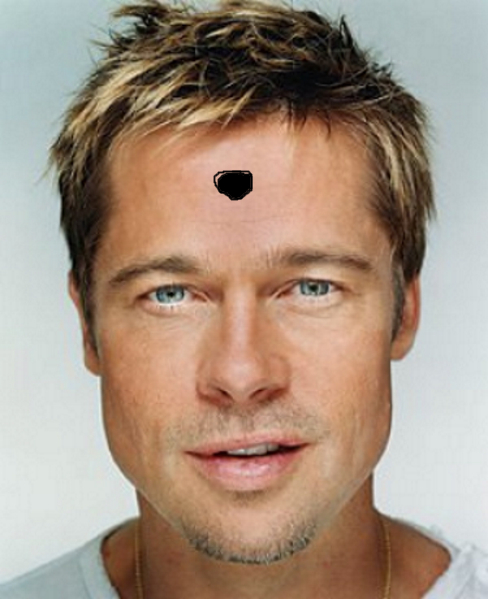
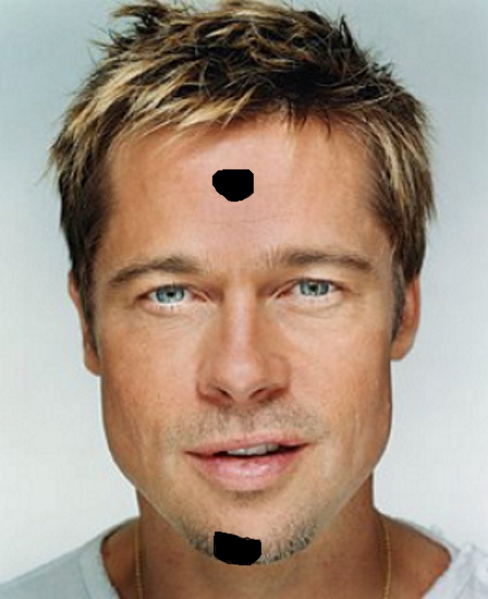
De functies om de verschillen aan te klikken verbeterd en nu geeft ie dit aan in de console.

Changed region(s): [[0.4303, 0.8715, 0.5533, 0.9616], [0.4303, 0.2705, 0.5225, 0.3306], [0.4611, 0.3306, 0.4918, 0.3606]]

diff --git a/src/screens/DeepFakeScreen.ts b/src/screens/DeepFakeScreen.ts
@@ -4,12 +4,14 @@
 class DeepFakeScreen extends GameScreen {
 
     private origninal: HTMLImageElement;
-    private deepfakeimage: HTMLImageElement
-    private startButton: UIButton;
+    private deepfakeimage: HTMLImageElement;
+    private differenceButtom1: UIButton;
+    private differenceButtom2: UIButton;
 
     // private readonly canvas: HTMLCanvasElement;
     // private readonly ctx: CanvasRenderingContext2D;
     public DeepFakeList: Array<Deepfake>
+    
     public draw(ctx: CanvasRenderingContext2D) {
         // Draw boxes
         ctx.fillStyle = 'white';
@@ -37,9 +39,10 @@ class DeepFakeScreen extends GameScreen {
         this.game.canvas.width/10*3.5,
         this.game.canvas.height * this.game.canvas.width / this.game.canvas.height/2 )
 
-
-        ctx.fillStyle = "white"
-        //ctx.fillRect( this.game.canvas.width / 4 * 3 , this.deepfakeimage.width / 2, 100,100)
+        // this.game.ctx.fillStyle = "white"
+        // this.game.ctx.fillRect( this.game.canvas.width / 4 * 2.78 , this.deepfakeimage.width / 0.82, 50,50);
+        
+        
     }
 
 
@@ -48,11 +51,15 @@ class DeepFakeScreen extends GameScreen {
     public listen(input: UserInput) { 
         const isPressed = input.GetMousePressed();
         if(isPressed){
-            if(this.startButton.checkIfPressed(isPressed)) {
-                console.log("klik")
+            if(this.differenceButtom1.checkIfPressed(isPressed)) {
+                console.log("inderdaad1")
             }
-            
+            if(this.differenceButtom2.checkIfPressed(isPressed)) {
+                console.log("inderdaad2")
+            }
         }
+            
+        
     }
 
     constructor(game: Game) {
@@ -66,8 +73,30 @@ class DeepFakeScreen extends GameScreen {
         imageDeepfake.src = "./assets/images/deepfake.jpg"; // deepfakeImage 
         this.deepfakeimage = imageDeepfake
 
-        this.startButton = new UIButton(this.game.canvas.width / 4 * 3 , this.deepfakeimage.width / 2, 100,100);
         
+
+        //Deze functie zorgt ervoor dat de klikbutton op de goede plaats komt
+        let imageLoadWaiter1 = setInterval(() => {
+            if (this.deepfakeimage.width !== 0){
+                this.differenceButtom1 = new UIButton(this.game.canvas.width / 4 * 2.78 , this.deepfakeimage.width / 1.7, 50,50);
+                
+                
+                clearInterval(imageLoadWaiter1)
+            }
+        }, 100);
+        
+        let imageLoadWaiter2 = setInterval(() => {
+            if (this.deepfakeimage.width !== 0){
+                this.differenceButtom2 = new UIButton(this.game.canvas.width / 4 * 2.78 , this.deepfakeimage.width / 0.82, 50,50);
+                
+                
+                clearInterval(imageLoadWaiter2)
+            }
+        }, 100);
+        
+        
+        
+
         
     }
 
